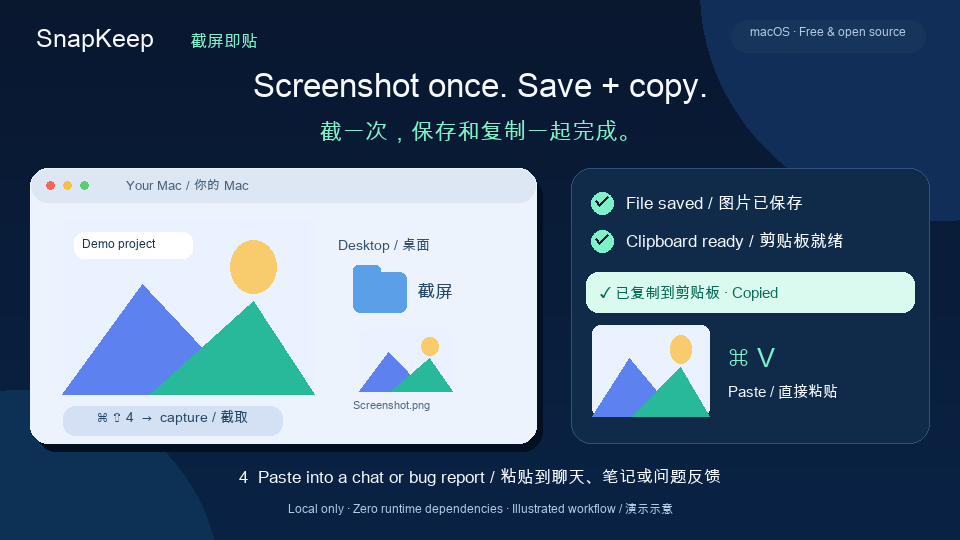
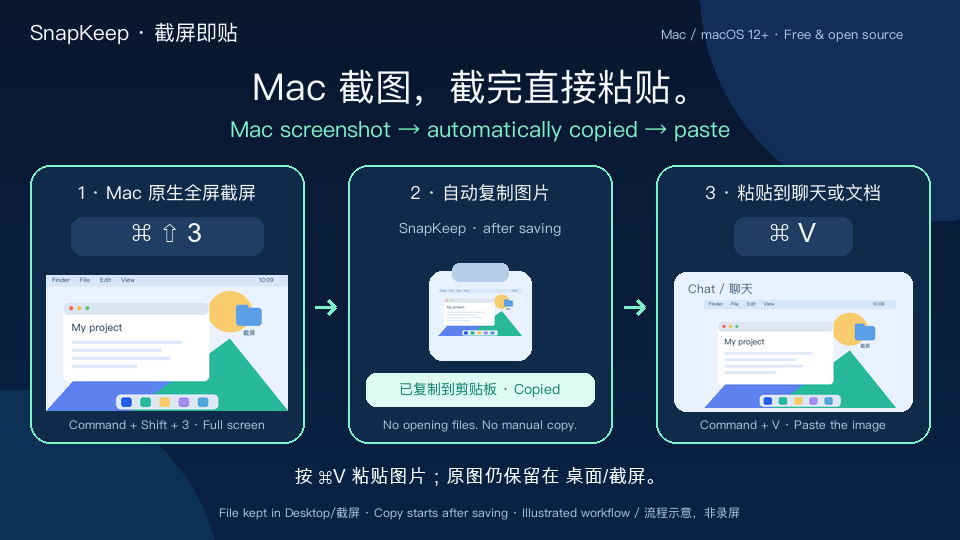
Clarify native Mac screenshot-to-clipboard workflow and demo

diff --git a/Tools/make_assets.py b/Tools/make_assets.py
@@ -5,28 +5,32 @@ Only the maintainer needs Pillow. The shipped app has no Python dependency.
 """
 from __future__ import annotations
 
-import math
+import argparse
+import glob
 from functools import lru_cache
 from pathlib import Path
 from PIL import Image, ImageDraw, ImageFont
 
 ROOT = Path(__file__).resolve().parents[1]
 ASSETS = ROOT / "Assets"
-FONT = "/Library/Fonts/Arial Unicode.ttf"
+FONT = next(iter(glob.glob("/System/Library/AssetsV2/**/PingFang.ttc", recursive=True)), "/Library/Fonts/Arial Unicode.ttf")
 W, H = 960, 540
 NAVY, BLUE, MINT, WHITE, MUTED = "#09172F", "#235DEA", "#7DF2C8", "#F6FAFF", "#B2C8E5"
 
-@lru_cache(maxsize=64)
-def font(size: int):
-    return ImageFont.truetype(FONT, size)
+@lru_cache(maxsize=128)
+def font(size: int, symbols=False):
+    # PingFang has clearer Chinese text, but does not include the shortcut glyphs.
+    path = "/Library/Fonts/Arial Unicode.ttf" if symbols else FONT
+    return ImageFont.truetype(path, size, index=3 if "PingFang" in path else 0)
+
+def face(value, size):
+    return font(size, "⌘" in value or "⇧" in value)
 
 def txt(d, x, y, value, size=18, fill=WHITE):
-    d.text((x, y), value, font=font(size), fill=fill)
+    d.text((x, y), value, font=face(value, size), fill=fill, anchor="lt")
 
 def center(d, x, y, value, size=18, fill=WHITE):
-    face = font(size)
-    box = d.textbbox((0, 0), value, font=face)
-    d.text((x - (box[2] - box[0]) / 2, y - box[1]), value, font=face, fill=fill)
+    d.text((x, y), value, font=face(value, size), fill=fill, anchor="mt")
 
 def rr(d, box, fill, radius=16, outline=None, width=1):
     d.rounded_rectangle(box, radius, fill=fill, outline=outline, width=width)
@@ -69,84 +73,108 @@ def sample(d, box, small=False):
         rr(d, (x + 12, y + 12, x + 130, y + 38), "#FFFFFF", 10)
         txt(d, x + 20, y + 15, "Demo project", 12, "#193252")
 
+@lru_cache(maxsize=1)
+def mac_screen():
+    """One complete synthetic desktop, reused as the copied and pasted image."""
+    im = Image.new("RGB", (480, 270), "#EAF1FF")
+    d = ImageDraw.Draw(im)
+    sample(d, (0, 0, 480, 270), small=True)
+    d.rectangle((0, 0, 480, 22), fill="#D8E6FA")
+    txt(d, 12, 5, "Finder     File     Edit     View", 12, "#284766")
+    txt(d, 422, 5, "10:09", 12, "#284766")
+    rr(d, (34, 53, 323, 210), "#FFFFFF", 10)
+    rr(d, (35, 54, 322, 78), "#DCE5F1", 9)
+    for i, c in enumerate(("#FA6259", "#F5BF4F", "#5BCB7A")):
+        d.ellipse((46 + i * 16, 62, 53 + i * 16, 69), fill=c)
+    txt(d, 51, 96, "My project", 20, "#193252")
+    for row, length in enumerate((218, 178, 196, 130)):
+        rr(d, (51, 130 + row * 16, 51 + length, 136 + row * 16), "#DEE8F7", 3)
+    rr(d, (377, 65, 427, 100), "#5C9FE9", 6)
+    rr(d, (377, 59, 401, 76), "#5C9FE9", 4)
+    center(d, 403, 109, "截屏", 12, "#284766")
+    rr(d, (139, 237, 341, 266), "#DDE7F4", 9)
+    for i, color in enumerate((BLUE, "#27B99B", "#F8CB6C", "#A48BEF", "#52A6DA")):
+        rr(d, (149 + i * 38, 243, 169 + i * 38, 261), color, 5)
+    return im
+
+def screen(im, box):
+    x, y, w, h = box
+    im.paste(mac_screen().resize((w, h), Image.Resampling.LANCZOS), (x, y))
+
 def render(frame):
     im = BG.copy()
     d = ImageDraw.Draw(im)
-    # Full functionality is visible on the first frame, before the animation begins.
-    txt(d, 36, 20, "SnapKeep", 25)
-    txt(d, 190, 28, "截屏即贴", 17, MINT)
-    rr(d, (731, 20, 925, 52), "#17355A", 16)
-    center(d, 828, 27, "macOS · Free & open source", 12, MUTED)
-    center(d, W / 2, 73, "Screenshot once. Save + copy.", 33)
-    center(d, W / 2, 120, "截一次，保存和复制一起完成。", 23, MINT)
+    captured, copied, pasted = frame >= 25, frame >= 43, frame >= 65
+    txt(d, 30, 22, "SnapKeep · 截屏即贴", 21)
+    txt(d, 661, 28, "Mac / macOS 12+ · Free & open source", 13, MUTED)
+    # Literal benefit and platform remain visible even before the GIF plays.
+    center(d, W / 2, 69, "Mac 截图，截完直接粘贴。", 37)
+    center(d, W / 2, 120, "Mac screenshot → automatically copied → paste", 22, MINT)
 
-    # Left: an illustrated macOS desktop using only synthetic imagery.
-    rr(d, (36, 176, 542, 451), "#041022", 20)
-    rr(d, (30, 168, 536, 443), "#EDF3FC", 18)
-    rr(d, (31, 169, 535, 202), "#DDE7F4", 16)
-    for i, c in enumerate(("#FA6259", "#F5BF4F", "#5BCB7A")):
-        d.ellipse((46 + i * 17, 181, 54 + i * 17, 189), fill=c)
-    txt(d, 126, 176, "Your Mac / 你的 Mac", 13, "#476079")
-    sample(d, (62, 220, 252, 174))
-    txt(d, 338, 235, "Desktop / 桌面", 14, "#34506C")
-    rr(d, (353, 272, 406, 312), "#5C9FE9", 7)
-    rr(d, (353, 265, 380, 283), "#5C9FE9", 5)
-    txt(d, 417, 278, "截屏", 18, "#274766")
+    for bounds, active in [((30, 165, 304, 443), frame >= 12), ((348, 165, 612, 443), copied), ((656, 165, 930, 443), pasted)]:
+        rr(d, bounds, "#102A49", 20, MINT if active else "#315279", 2)
+    for x in (325, 634):
+        d.line((x - 10, 307, x + 10, 307), fill=MINT, width=3)
+        d.line([(x + 3, 300), (x + 10, 307), (x + 3, 314)], fill=MINT, width=3)
 
-    progress = min(1, max(0, (frame - 12) / 18))
-    if 12 <= frame < 34:
-        x2, y2 = 70 + int(232 * progress), 228 + int(154 * progress)
-        d.rectangle((70, 228, x2, y2), outline="#265DEA", width=3)
-        d.line((x2 - 8, y2, x2 + 8, y2), fill=NAVY, width=2)
-        d.line((x2, y2 - 8, x2, y2 + 8), fill=NAVY, width=2)
-    if frame >= 34:
-        sample(d, (359, 330, 93, 61), small=True)
-        txt(d, 353, 397, "Screenshot.png", 11, "#4F6782")
-    rr(d, (63, 406, 282, 435), "#D4E1F5", 12)
-    center(d, 172, 410, "⌘ ⇧ 4  →  capture / 截取", 14, "#284766")
+    center(d, 167, 184, "1 · Mac 原生全屏截屏", 18)
+    rr(d, (71, 217, 263, 255), BLUE if 12 <= frame < 25 else "#203E63", 11)
+    center(d, 167, 223, "⌘ ⇧ 3", 27)
+    screen(im, (46, 275, 242, 136))
+    # A full-screen flash, never a region-selection rectangle or crosshair.
+    if 22 <= frame <= 25:
+        flash = Image.new("RGB", (242, 136), "white")
+        original = im.crop((46, 275, 288, 411))
+        im.paste(Image.blend(original, flash, .65), (46, 275))
+    center(d, 167, 420, "Command + Shift + 3 · Full screen", 12, MUTED)
 
-    # Right: visible outcomes, ending with a paste preview.
-    rr(d, (571, 168, 929, 443), "#102A49", 20, "#315279")
-    step1 = frame >= 34
-    step2 = frame >= 47
-    step3 = frame >= 66
-    for n, yy, label, active in [(1, 188, "File saved / 图片已保存", step1), (2, 226, "Clipboard ready / 剪贴板就绪", step2)]:
-        d.ellipse((591, yy + 4, 613, yy + 26), fill=MINT if active else "#294460")
-        if active:
-            check(d, 595, yy + 8, NAVY, .7)
-        else:
-            txt(d, 598, yy + 4, str(n), 12, MUTED)
-        txt(d, 626, yy + 2, label, 17, WHITE if active else MUTED)
-    if step2:
-        rr(d, (586, 272, 914, 312), "#DBFAEF", 12)
-        txt(d, 600, 281, "✓ 已复制到剪贴板 · Copied", 15, "#076B57")
-    if step3:
-        sample(d, (592, 325, 117, 91), small=True)
-        txt(d, 728, 338, "⌘ V", 27, MINT)
-        txt(d, 728, 380, "Paste / 直接粘贴", 15, WHITE)
+    center(d, 480, 184, "2 · 自动复制图片", 18)
+    center(d, 480, 222, "SnapKeep · after saving", 14, MUTED)
+    rr(d, (429, 271, 531, 360), "#E8F1FF", 13)
+    rr(d, (452, 263, 508, 281), "#B7CDEA", 7)
+    if copied:
+        screen(im, (438, 289, 84, 47))
+        rr(d, (366, 373, 594, 406), "#DDFBF1", 10)
+        center(d, 480, 382, "已复制到剪贴板 · Copied", 14, "#087E65")
     else:
-        txt(d, 606, 348, "No extra shortcut.", 19)
-        txt(d, 606, 384, "快捷键照旧，少一步操作。", 17, MUTED)
+        center(d, 480, 309, "IMAGE", 16, "#476079")
+        center(d, 480, 382, "保存后，自动复制图片本身", 14, MUTED)
+    center(d, 480, 420, "No opening files. No manual copy.", 12, MUTED)
+
+    center(d, 793, 184, "3 · 粘贴到聊天或文档", 18)
+    rr(d, (734, 217, 852, 255), BLUE if 62 <= frame < 72 else "#203E63", 11)
+    center(d, 793, 223, "⌘ V", 27)
+    rr(d, (674, 272, 912, 411), "#E8F1FF", 12)
+    txt(d, 688, 283, "Chat / 聊天", 12, "#476079")
+    if pasted:
+        screen(im, (704, 300, 192, 108))
+    else:
+        center(d, 793, 337, "Paste here / 粘贴到这里", 14, "#6B82A0")
+    center(d, 793, 420, "Command + V · Paste the image", 12, MUTED)
 
     if frame < 12:
-        caption = "Keep the file. Paste it anywhere. / 保留文件，也能直接粘贴"
-    elif frame < 34:
-        caption = "1  Capture with your usual shortcut / 使用熟悉的截屏快捷键"
-    elif frame < 47:
-        caption = "2  Saved automatically to Desktop/截屏 / 自动保存到桌面截屏文件夹"
-    elif frame < 66:
-        caption = "3  Image copied + a quiet banner / 自动复制图片并轻提示"
+        caption = "苹果负责截屏，SnapKeep 负责自动复制。"
+    elif frame < 25:
+        caption = "按 ⌘⇧3：使用 Mac 系统全屏截屏，不用框选。"
+    elif not copied:
+        caption = "系统先保存截图文件，再触发图片复制。"
+    elif not pasted:
+        caption = "图片已自动复制到剪贴板，不打开查看器。"
     else:
-        caption = "4  Paste into a chat or bug report / 粘贴到聊天、笔记或问题反馈"
-    center(d, W / 2, 468, caption, 17)
-    center(d, W / 2, 503, "Local only · Zero runtime dependencies · Illustrated workflow / 演示示意", 12, MUTED)
+        caption = "按 ⌘V 粘贴图片；原图仍保留在 桌面/截屏。"
+    center(d, W / 2, 467, caption, 19)
+    center(d, W / 2, 507, "File kept in Desktop/截屏 · Copy starts after saving · Illustrated workflow / 流程示意，非录屏", 12, MUTED)
     return im
 
 def main():
+    parser = argparse.ArgumentParser(description=__doc__)
+    parser.add_argument("--demo-only", action="store_true", help="Keep existing app icons; regenerate only the workflow assets")
+    args = parser.parse_args()
     ASSETS.mkdir(exist_ok=True)
-    large_icon = icon()
-    large_icon.save(ASSETS / "AppIcon.png")
-    large_icon.save(ASSETS / "AppIcon.icns", sizes=[(16,16), (32,32), (64,64), (128,128), (256,256), (512,512), (1024,1024)])
+    if not args.demo_only:
+        large_icon = icon()
+        large_icon.save(ASSETS / "AppIcon.png")
+        large_icon.save(ASSETS / "AppIcon.icns", sizes=[(16,16), (32,32), (64,64), (128,128), (256,256), (512,512), (1024,1024)])
     frames = [render(i) for i in range(100)]
     atlas = Image.new("RGB", (240 * 10, 135))
     for i in range(10):

diff --git a/README_EN.md b/README_EN.md
@@ -1,16 +1,16 @@
 <div align="center">
 
-<img src="Assets/demo.gif" alt="SnapKeep illustrated workflow: take a Mac screenshot, save the file, copy the image, and paste" width="960">
+# SnapKeep for Mac
 
-# SnapKeep
+**Take a Mac screenshot. Then just paste it.**
 
-**One screenshot. Saved and copied.**
+Press **Command + Shift + 3** to take a full-screen screenshot with macOS. SnapKeep automatically copies the saved image to your clipboard. Press **Command + V** to paste it into an app that accepts images.
 
-Keep your usual Mac screenshot shortcuts. Get the file and the clipboard image together.
+**The screenshot stays saved in `Desktop/截屏`, too.** No need to find the file and copy it yourself.
 
-**macOS screenshot automation + an installable Agent Skill for compatible Codex and Claude Code workflows.**
+[中文](README.md) · **[Download for macOS](https://github.com/TonT-wilshere/macos-screenshot-clipboard/releases/latest)** · [Agent Skill](#agent-skill-installation) · [Report an issue](https://github.com/TonT-wilshere/macos-screenshot-clipboard/issues)
 
-[中文](README.md) · [Agent Skill](#agent-skill-installation) · **[Download for macOS](https://github.com/TonT-wilshere/macos-screenshot-clipboard/releases/latest)** · [Report an issue](https://github.com/TonT-wilshere/macos-screenshot-clipboard/issues)
+<img src="Assets/demo.gif" alt="Illustration for Mac: Command + Shift + 3 takes a full-screen screenshot, SnapKeep automatically copies the saved image, and Command + V pastes it" width="960">
 
 ![macOS](https://img.shields.io/badge/macOS-12%2B-111827?logo=apple)
 ![Universal](https://img.shields.io/badge/Apple_Silicon_%2B_Intel-Universal-2563eb)
@@ -23,29 +23,23 @@ Keep your usual Mac screenshot shortcuts. Get the file and the clipboard image t
 
 </div>
 
-## Agent Skill installation
+## Stop looking for the screenshot you just took
 
-**`macos-screenshot-save-copy`** helps agents configure and troubleshoot **macOS screenshot automation**: save screenshots in a desktop folder, automatically copy images to the clipboard, preserve familiar shortcuts, and uninstall cleanly.
+You take a screenshot on your Mac to send it in a chat, add it to a note, or explain a bug. You want to paste the image now and keep the file for later.
 
-```bash
-npx skills add TonT-wilshere/macos-screenshot-clipboard --skill macos-screenshot-save-copy -g
-```
+SnapKeep connects those steps without replacing the macOS screenshot tool:
 
-Use it for “save and copy Mac screenshots,” “screenshot to clipboard,” “automatically copy screenshots,” and “organize screenshots in a desktop folder.” Installing this skill adds agent instructions; the app must still be configured to enable automatic copying.
+1. **Capture:** press `⌘⇧3` (Command + Shift + 3) for a full-screen screenshot.
+2. **Automatic copy:** after macOS saves the file to `Desktop/截屏`, SnapKeep copies the **image itself**, not its file path, and requests a “Copied to clipboard” notification.
+3. **Paste:** switch to a chat, note, or another app that accepts images, then press `⌘V` (Command + V).
 
-[Read SKILL.md](skills/macos-screenshot-save-copy/SKILL.md) · [Skill catalog](skills/README.md) · [Machine-readable project summary](llms.txt)
-
-## Take a screenshot. Then copy it again?
-
-You want to keep a screenshot for later and paste it into a chat, note, bug report, or AI conversation right now. macOS normally saves the file; adding Control copies it instead of saving it.
-
-SnapKeep connects the steps: **capture → save → copy the image → paste**. No new shortcut to memorize.
+**SnapKeep is an automatic clipboard helper for native Mac screenshots, not a separate capture or selection tool.** The animation above illustrates the workflow; it is not a screen recording. Copying starts after the screenshot file is saved, so the native floating thumbnail can cause a delay.
 
 ## Features
 
-- Saves screenshots to `Desktop/截屏` and copies the image itself to the clipboard.
+- Configures macOS to save screenshots to `Desktop/截屏`, then automatically copies the saved image to the clipboard.
 - Shows a “Copied to clipboard” notification without opening an image viewer or a modal prompt.
-- Keeps `⌘⇧3`, `⌘⇧4`, and `⌘⇧5` working as usual.
+- Uses the native Mac screenshot workflow; no new screenshot shortcut or selection interface.
 - Native Chinese / English setup UI with a remembered language choice.
 - Universal app for Apple Silicon and Intel, targeting macOS 12+.
 - Quit the setup app after enabling; macOS Folder Actions keeps processing new images.
@@ -59,7 +53,7 @@ Useful for messaging, notes, documentation, bug reports, and visual context for 
 1. Download **`SnapKeep-1.0.0-macOS-Universal.dmg`** or ZIP from [Releases](https://github.com/TonT-wilshere/macos-screenshot-clipboard/releases/latest).
 2. Drag `SnapKeep.app` to Applications and open it.
 3. Click **Enable / Update SnapKeep**. Allow **System Events** control when macOS asks.
-4. Take a screenshot with `⌘⇧4`, wait for the file to save, then paste with `⌘V`.
+4. Press **`⌘⇧3` to take a full-screen screenshot**, wait for the file to save and copy, then press **`⌘V` to paste** into an app that accepts images.
 
 The app targets macOS 12 and newer. Local behavior has been verified on macOS 15; feedback on other versions is welcome.
 
@@ -72,6 +66,7 @@ You can quit SnapKeep after setup. Reopen it to update, change the notification 
 ## Behavior to know
 
 - Copying starts **after the screenshot file is saved**. The macOS floating thumbnail can delay this by several seconds; its setting is available under `⌘⇧5 → Options`.
+- The main example uses native `⌘⇧3` full-screen capture. Other native screenshot modes, such as `⌘⇧4` or `⌘⇧5`, also work when they save an image to the configured screenshot folder; SnapKeep does not provide its own capture controls.
 - Adding Control uses macOS's copy-only shortcut and does not save a file.
 - New PNG, JPEG, HEIC/HEIF, and TIFF images in `Desktop/截屏` trigger copying, including images manually added to that folder. Screen recordings are ignored.
 - If several images arrive together, the clipboard keeps the last successfully processed image. This is not a clipboard-history manager.
@@ -84,6 +79,18 @@ You can quit SnapKeep after setup. Reopen it to update, change the notification 
 If copying stops, confirm the file is in `Desktop/截屏`, then click Enable / Update again. If automation access was denied, allow SnapKeep to control System Events under System Settings → Privacy & Security → Automation. Check the enabled rule in Apple's Folder Actions Setup if needed.
 
 An unwanted “new items” dialog is usually Apple's `add - new item alert.scpt` sample. Setup detaches that sample from this screenshot folder and migrates the early Chinese-named copy script.
+
+## Agent Skill installation
+
+For compatible Codex and Claude Code skill workflows, **`macos-screenshot-save-copy`** helps agents configure and troubleshoot **macOS screenshot-to-clipboard automation**: save native Mac screenshots in a desktop folder, automatically copy the saved images, preserve familiar shortcuts, and uninstall cleanly.
+
+```bash
+npx skills add TonT-wilshere/macos-screenshot-clipboard --skill macos-screenshot-save-copy -g
+```
+
+Use it for “save and copy Mac screenshots,” “screenshot to clipboard,” “automatically copy screenshots,” and “organize screenshots in a desktop folder.” Installing this skill adds agent instructions; the app must still be configured to enable automatic copying. The skill does not add a capture or region-selection tool.
+
+[Read SKILL.md](skills/macos-screenshot-save-copy/SKILL.md) · [Skill catalog](skills/README.md) · [Machine-readable project summary](llms.txt)
 
 ## Build from source
 

diff --git a/RELEASE_NOTES.md b/RELEASE_NOTES.md
@@ -1,22 +1,20 @@
-# SnapKeep 1.0.0 / 截屏即贴 1.0.0
+# SnapKeep 1.0.0 for Mac / 截屏即贴 1.0.0（macOS）
 
-![SnapKeep: screenshot once, save and copy](https://raw.githubusercontent.com/TonT-wilshere/macos-screenshot-clipboard/main/Assets/demo.gif)
+**Mac 原生截图，截完就能粘贴。/ Take a Mac screenshot. Then just paste it.**
 
-[中文](#中文) · [English](#english) · [Agent Skill / 技能说明](https://github.com/TonT-wilshere/macos-screenshot-clipboard/tree/main/skills/macos-screenshot-save-copy)
+按 **Command + Shift + 3** 全屏截屏，SnapKeep 在文件保存后自动把**图片**复制到剪贴板；再按 **Command + V** 粘贴到支持图片的应用。截图文件同时保留在桌面“截屏”文件夹。
 
-**macOS screenshot automation + an installable Agent Skill / Mac 截屏自动保存与复制，附可安装 Agent Skill。**
+Press **Command + Shift + 3** for a native macOS full-screen screenshot. After the file is saved, SnapKeep automatically copies the **image** to the clipboard. Press **Command + V** to paste it into an app that accepts images. The file stays in `Desktop/截屏`.
 
-```bash
-npx skills add TonT-wilshere/macos-screenshot-clipboard --skill macos-screenshot-save-copy -g
-```
+![Illustrated Mac workflow: Command + Shift + 3 → automatic image copy → Command + V](https://raw.githubusercontent.com/TonT-wilshere/macos-screenshot-clipboard/main/Assets/demo.gif)
 
-The skill guides agents through setup; the app performs the local automation. / Skill 提供代理操作说明，应用负责实际的本机自动化。
+[中文](#中文) · [English](#english) · [Agent Skill / 技能安装](#agent-skill--技能安装)
 
 ## 中文
 
-**截一次，保存和复制一起完成。** 不用先找文件再复制，也不用改掉熟悉的 Mac 截屏快捷键。
+**给 Mac 原生截图补上自动复制这一步。** 不用先找截图文件再复制；它不是另一个截屏器，也不提供框选界面。
 
-- `⌘⇧3 / ⌘⇧4 / ⌘⇧5` 照旧；文件自动存入桌面“截屏”，图片自动进入剪贴板。
+- 使用 macOS 原生 `⌘⇧3` 全屏截屏；文件存入桌面“截屏”后，图片自动进入剪贴板，再用 `⌘V` 粘贴。
 - 复制成功后轻提示“已复制到剪贴板”，不弹出查看器询问。
 - 中英文原生界面，一键启用、更新或卸载。
 - Apple Silicon + Intel 通用版，最低 macOS 12；当前功能在 macOS 15 验证。
@@ -25,15 +23,17 @@ The skill guides agents through setup; the app performs the local automation. / 
 
 **下载 DMG（推荐）或 ZIP → 打开 SnapKeep.app → 点击启用 → 允许 System Events。** 配置后可退出应用。
 
-当前发行未经 Apple 公证。首次打开若被拦截，请按 [Apple 官方指引](https://support.apple.com/zh-cn/102445)在“隐私与安全性”中选择“仍要打开”。通知可能受专注模式影响；复制在文件实际保存后发生。
+复制在文件实际保存后发生，原生悬浮缩略图可能使它延后数秒。`⌘⇧4 / ⌘⇧5` 等其他原生截屏模式保存图片到同一文件夹时也适用。粘贴目标需要支持图片；通知可能受系统设置和专注模式影响。上方动画为流程示意，不是实机录屏。
+
+当前发行未经 Apple 公证。首次打开若被拦截，请按 [Apple 官方指引](https://support.apple.com/zh-cn/102445)在“隐私与安全性”中选择“仍要打开”，不要关闭 Gatekeeper 或系统完整性保护。
 
 如果它省下了你的一步，欢迎 [Star 这个项目](https://github.com/TonT-wilshere/macos-screenshot-clipboard)。⭐
 
 ## English
 
-**One screenshot. Saved and copied.** Keep your usual shortcuts and get both the file and the clipboard image.
+**Automatic copying for native Mac screenshots.** No need to find the screenshot file and copy it yourself. SnapKeep is a clipboard helper, not a separate capture or selection tool.
 
-- Use `⌘⇧3 / ⌘⇧4 / ⌘⇧5` as usual; screenshots go to `Desktop/截屏` and the clipboard.
+- Take a full-screen screenshot with native macOS `⌘⇧3`; once the file is saved in `Desktop/截屏`, the image is copied automatically. Paste it with `⌘V`.
 - A quiet “Copied to clipboard” notification, without a viewer prompt.
 - Native Chinese / English setup, update, and uninstall controls.
 - Universal Apple Silicon + Intel build targeting macOS 12+; behavior verified on macOS 15.
@@ -42,9 +42,23 @@ The skill guides agents through setup; the app performs the local automation. / 
 
 **Download DMG (recommended) or ZIP → open SnapKeep.app → click Enable → allow System Events.** Quit the setup app afterward if you like.
 
-This release is not Apple-notarized. If blocked, follow [Apple's Open Anyway instructions](https://support.apple.com/en-us/102445). Notifications may be suppressed by Focus; copying starts after the file is saved.
+Copying starts after the file is saved; the native floating thumbnail can delay it by several seconds. Other native screenshot modes, such as `⌘⇧4` or `⌘⇧5`, work when they save an image to the same folder. The destination app must accept images; notifications depend on macOS settings and Focus. The animation above illustrates the workflow and is not a screen recording.
+
+This release is not Apple-notarized. If blocked, follow [Apple's Open Anyway instructions](https://support.apple.com/en-us/102445). Do not disable Gatekeeper or System Integrity Protection.
 
 If it saves you a step, please [Star the project](https://github.com/TonT-wilshere/macos-screenshot-clipboard). ⭐
+
+## Agent Skill / 技能安装
+
+For compatible Codex and Claude Code skill workflows, the **`macos-screenshot-save-copy`** Agent Skill guides setup and troubleshooting for **macOS screenshot-to-clipboard automation**. / 适用于兼容的 Codex、Claude Code 技能工作流，帮助配置和排查 Mac 截屏自动保存、图片复制到剪贴板的问题。
+
+```bash
+npx skills add TonT-wilshere/macos-screenshot-clipboard --skill macos-screenshot-save-copy -g
+```
+
+The skill adds agent instructions; the app performs the local automation after setup. / Skill 安装的是代理操作说明，仍需配置应用才能启用本机自动复制功能。
+
+[SKILL.md](https://github.com/TonT-wilshere/macos-screenshot-clipboard/blob/main/skills/macos-screenshot-save-copy/SKILL.md) · [Skill catalog / 技能目录](https://github.com/TonT-wilshere/macos-screenshot-clipboard/blob/main/skills/README.md)
 
 ## Files / 下载文件
 
